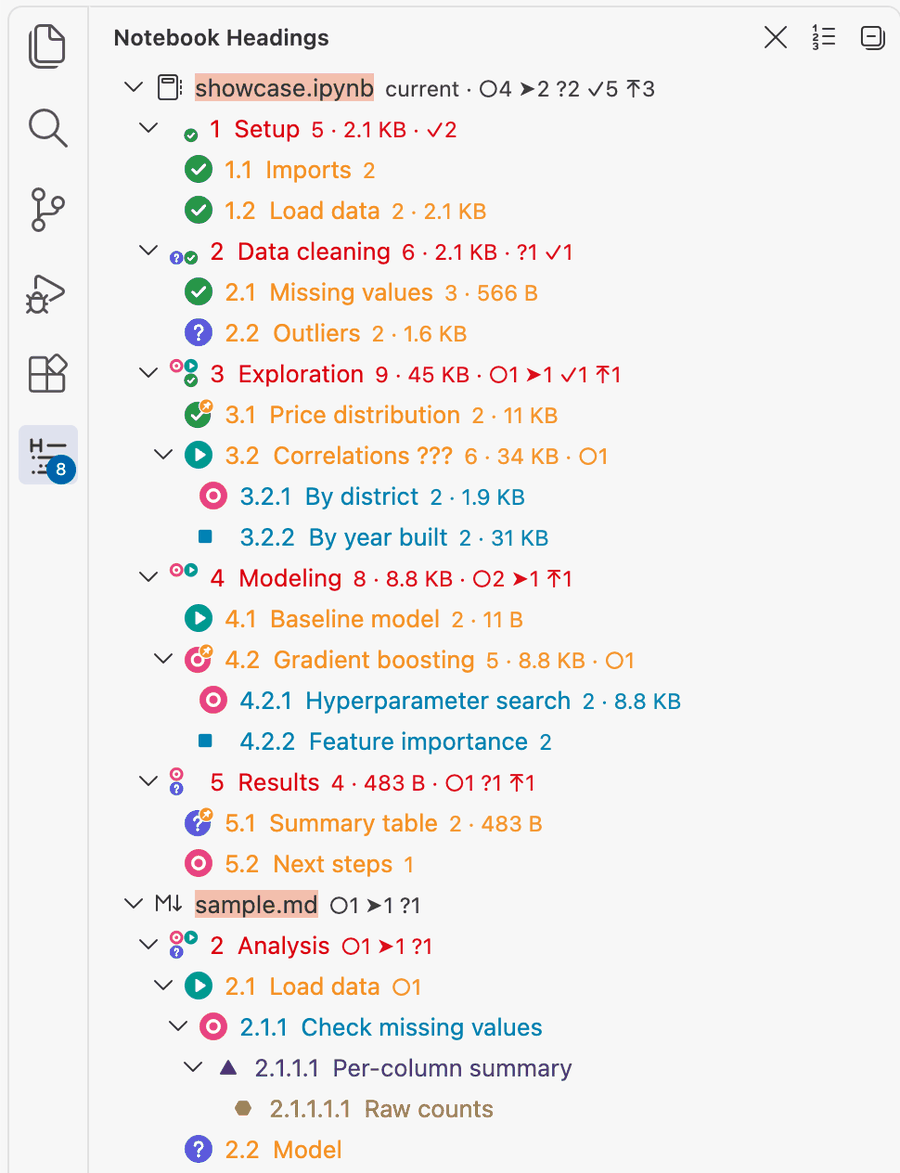
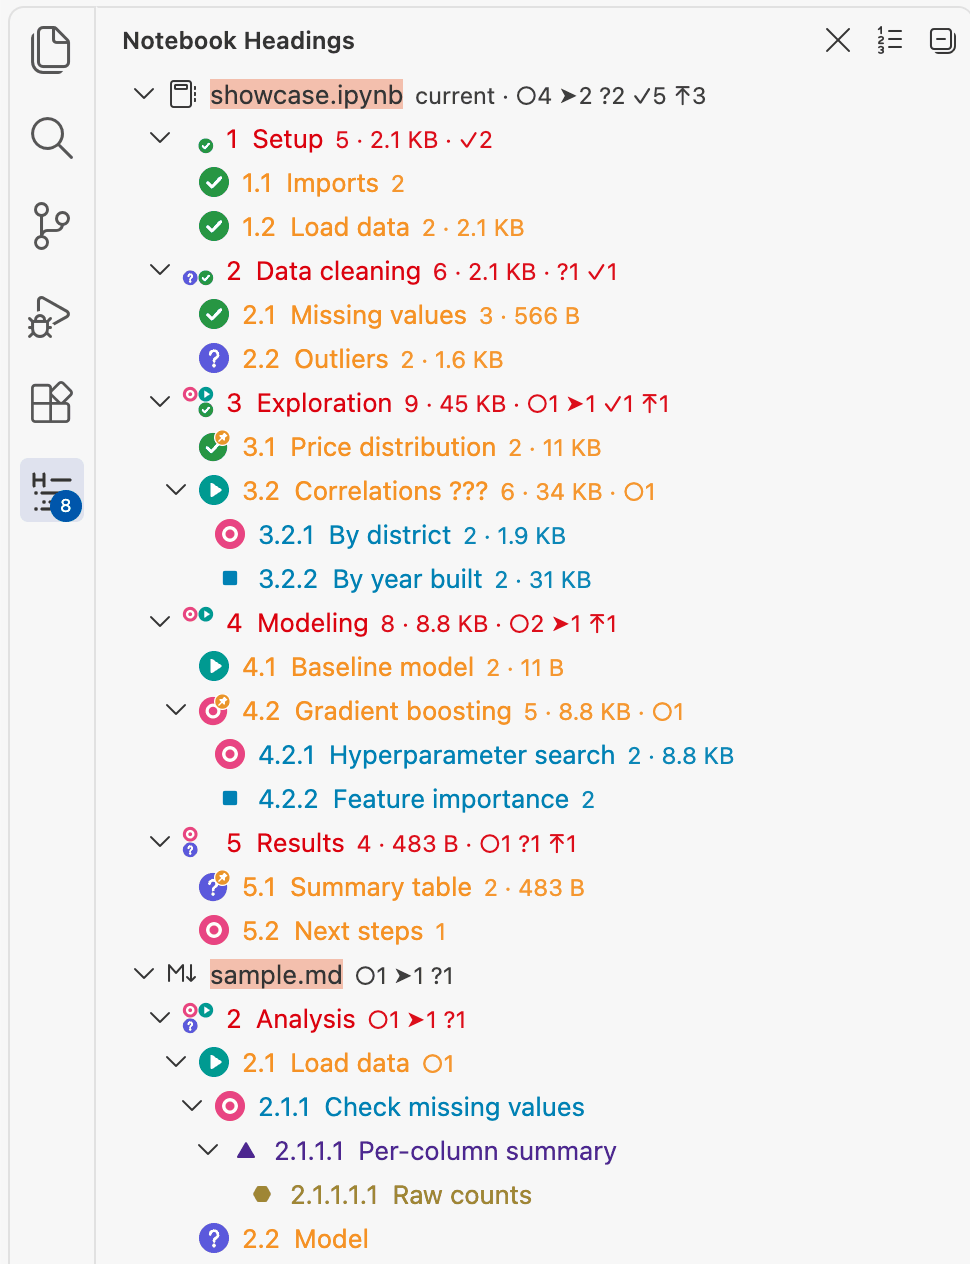
Release 1.10.3
The square of #### headings sat a few pixels too far left (wrong left side
bearing in the bundled icon font). README: sharper pictures, and new ones
for Go to Heading and Select Section.

diff --git a/scripts/level-icons.py b/scripts/level-icons.py
@@ -53,7 +53,9 @@ fb = FontBuilder(EM, isTTF=True)
 fb.setupGlyphOrder(list(glyphs))
 fb.setupCharacterMap({0xE001: 'square'})
 fb.setupGlyf(glyphs)
-fb.setupHorizontalMetrics({name: (EM, 0) for name in glyphs})
+# The left side bearing must be the outline's left edge: with 0, VS Code
+# (unlike some renderers) draws the glyph shifted left by that much.
+fb.setupHorizontalMetrics({name: (EM, getattr(fb.font['glyf'][name], 'xMin', 0)) for name in glyphs})
 fb.setupHorizontalHeader(ascent=EM, descent=0)
 fb.setupNameTable({'familyName': 'notebook-headings-levels', 'styleName': 'Regular'})
 fb.setupOS2(sTypoAscender=EM, sTypoDescender=0, usWinAscent=EM, usWinDescent=0)

diff --git a/README.zh-CN.md b/README.zh-CN.md
@@ -23,8 +23,8 @@ VS Code 自带的 Outline 会把所有标题全部展开，标题一多就没法
 - **跟随当前位置**：在文档里点击或滚动时，目录自动高亮当前小节；不会自动展开你折叠起来的部分。
 - **状态栏显示当前小节**：悬停显示完整路径，点击打开目录。
 - **搜索过滤**（目录面板中 `Cmd+Alt+F`）：边输入边过滤，匹配文字高亮，保留上级标题。<br><img src="media/screenshots/filter.png" alt="搜索 model：只留下匹配的标题和它们的上级标题" width="600">
-- **快速跳转**（在 notebook 或 Markdown 编辑器中 `Cmd+Alt+O`）：弹出所有标题的搜索列表。
-- **选中整节**（右键 → **Select Section**）：选中这一节的所有 cell（Markdown 中是所有行），包括下级小节，之后可以用 VS Code 自带的命令剪切、复制、移动、运行或删除整节。先用 `Cmd`/`Ctrl` + 点击或 `Shift` + 点击选中多个标题，就能一次选中多个小节。
+- **快速跳转**（在 notebook 或 Markdown 编辑器中 `Cmd+Alt+O`）：弹出所有标题的搜索列表。<br><img src="media/screenshots/go-to-heading.png" alt="notebook 上方的"跳转到标题"列表：每个标题带层级或状态图标、cell 数和输出大小" width="600">
+- **选中整节**（右键 → **Select Section**）：选中这一节的所有 cell（Markdown 中是所有行），包括下级小节，之后可以用 VS Code 自带的命令剪切、复制、移动、运行或删除整节。先用 `Cmd`/`Ctrl` + 点击或 `Shift` + 点击选中多个标题，就能一次选中多个小节。<br><img src="media/screenshots/select-section.png" alt="在标题上选中整节：这一节的 9 个 cell 在 notebook 里全部被选中" width="600">
 - **右键复制**：复制标题文字、**本节引用**（文件、带编号的完整路径和 cell 范围，如 `code/Analysis.ipynb · 2  Analysis › 2.1  Summary · 第 12–30 个 cell`；方便发给 Claude Code 等 AI 助手，它们读得到选中的文字，读不到选中的 cell），或者把**本节内容**复制成纯文本。
 - **中英文界面**：命令、菜单、设置和提示信息跟随 VS Code 的显示语言。
 - **一键设置 cell 标签**：每个代码 cell 右下角有一个 **Tags** 按钮，点击后弹出简短的勾选列表，列出在 Jupyter Book / MyST 网页上把 cell 部分内容折叠起来（可点开）的标签：`hide-output`、`hide-input`、`hide-cell`。其他标签可以直接输入。标签保存在 Jupyter、Jupyter Book 和 nbconvert 读取的位置。<br><img src="media/screenshots/tags.png" alt="代码 cell 的标签勾选列表，勾选了 hide-output" width="600">

diff --git a/README.md b/README.md
@@ -43,11 +43,13 @@ you see the structure first and drill down on demand.
   <br><img src="media/screenshots/filter.png" alt="Filtering the headings for model: only the matching headings and their parents stay" width="600">
 - **Go to Heading** (`Cmd+Alt+O` / `Ctrl+Alt+O` in a notebook or Markdown
   editor): a searchable list of all headings.
+  <br><img src="media/screenshots/go-to-heading.png" alt="The Go to Heading list over a notebook: every heading with its level or status icon, cell count and output size" width="600">
 - **Select whole sections** (right-click → **Select Section**): selects the
   heading's cells, or lines in Markdown, including all its subsections, so
   you can cut, copy, move, run or delete the section with VS Code's own
   commands. Select several headings first (`Cmd`/`Ctrl`-click or
   `Shift`-click) to select all their sections at once.
+  <br><img src="media/screenshots/select-section.png" alt="Select Section on a heading: all nine cells of the section are selected in the notebook" width="600">
 - **Right-click to copy** a heading's text, a **section reference** with its
   file, full path and cell range (e.g.
   `code/Analysis.ipynb · 2  Analysis › 2.1  Summary · cells 12–30`; handy for

diff --git a/CONTRIBUTING.md b/CONTRIBUTING.md
@@ -100,7 +100,8 @@ extension's decorations or status bar items get into the picture. Size the
 window to about 1600×1000, take the screenshots, and save them over the
 files in `media/screenshots/`: `tour.gif` (a short tour built from a few
 captures), `markdown.png`, and one picture per feature (`filter.png`,
-`tags.png`, `cell-status.png`, `project-marks.png`). Keep them small and
+`go-to-heading.png`, `select-section.png`, `tags.png`, `cell-status.png`,
+`project-marks.png`). Keep them small and
 without metadata.
 
 ## Project layout

diff --git a/CHANGELOG.md b/CHANGELOG.md
@@ -1,5 +1,17 @@
 # Changelog
 
+## 1.10.3 — 2026-11-10
+
+**Fixed**
+
+- The square of `####` headings sat a few pixels too far left, leaving a
+  wider gap before the heading text than the other shapes.
+
+**Changed**
+
+- README: sharper pictures, and new ones for Go to Heading and Select
+  Section.
+
 ## 1.10.2 — 2026-11-10
 
 **Changed**
